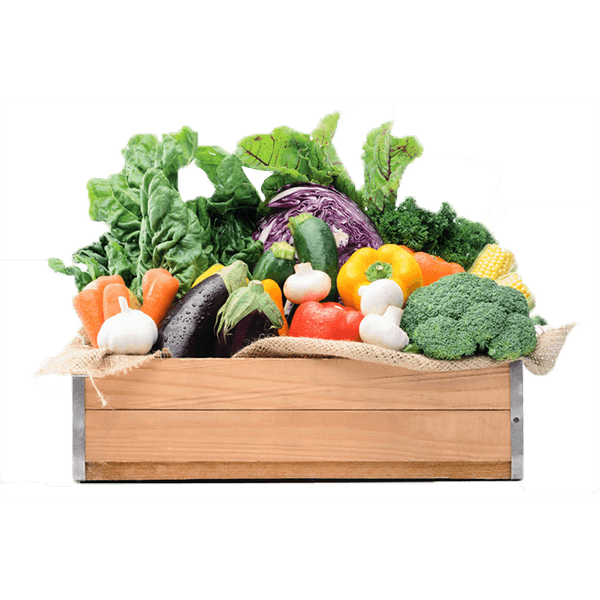
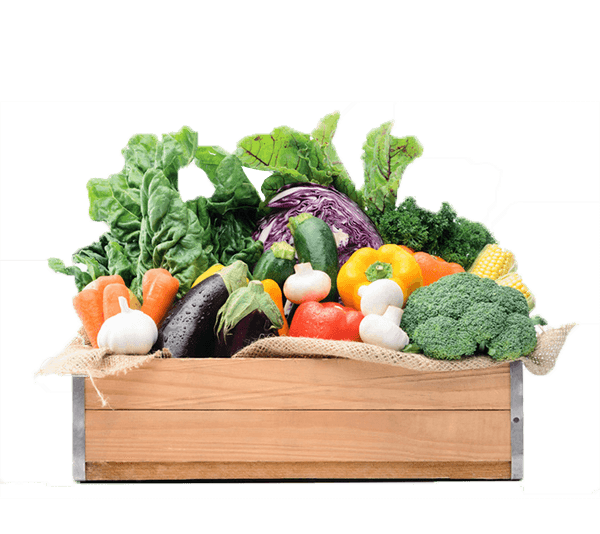
Improving the product item, adding the surprise basket and styling the product card

diff --git a/projects/mercat-kzero/src/app/product/product-list/sellers.ts b/projects/mercat-kzero/src/app/product/product-list/sellers.ts
@@ -2,7 +2,7 @@ export const sellers = [
   {
     id: 0,
     name: 'L´hort de Lourdes',
-    productName: 'Cistelles ecológiques',
+    productName: 'varied basket',
     img: 'assets/img/cesta.png',
     bio:
       'Lorem ipsum dolor sit amet consectetur adipisicing elit. Accusantium sequi fuga delectus quos expedita ut ipsam similique et ea, repellend',
@@ -11,37 +11,10 @@ export const sellers = [
   {
     id: 1,
     name: 'Can Manel',
-    productName: 'Fruitas i Verdures',
-    img: 'assets/img/frutas.png',
+    productName: 'surprise basket',
+    img: 'assets/img/cesta-1.2.png',
     bio:
       'Lorem ipsum dolor sit amet consectetur adipisicing elit. Accusantium sequi fuga delectus quos expedita ut ipsam similique et ea, repellend',
     rating: 2,
-  },
-  {
-    id: 2,
-    name: 'Verdures Carmen',
-    productName: 'Verdures variades',
-    img: 'assets/img/zanahorias.png',
-    bio:
-      'Lorem ipsum dolor sit amet consectetur adipisicing elit. Accusantium sequi fuga delectus quos expedita ut ipsam similique et ea, repellend',
-    rating: 4,
-  },
-  {
-    id: 3,
-    name: 'La Masia',
-    productName: 'Llegums i bollets',
-    img: 'assets/img/champiñones.png',
-    bio:
-      'Lorem ipsum dolor sit amet consectetur adipisicing elit. Accusantium sequi fuga delectus quos expedita ut ipsam similique et ea, repellend',
-    rating: 3,
-  },
-  {
-    id: 4,
-    name: 'L`hort d´en Lluis',
-    productName: 'Frutas',
-    img: 'assets/img/platano.png',
-    bio:
-      'Lorem ipsum dolor sit amet consectetur adipisicing elit. Accusantium sequi fuga delectus quos expedita ut ipsam similique et ea, repellend',
-    rating: 5,
   },
 ];

diff --git a/projects/mercat-kzero/src/app/product/product-item/product-item.component.html b/projects/mercat-kzero/src/app/product/product-item/product-item.component.html
@@ -1,17 +1,11 @@
-<mat-card class="product-card">
+<mat-card class="product-card mat-elevation-z1">
   <img mat-card-image [src]="seller.img" [alt]="seller.name" />
-
   <mat-card-content>
-    <h2 mat-card-title>{{ seller.name }}</h2>
-    <h3 class="mat-h3">{{ seller.productName }}</h3>
-    <app-rating-stars
-      [rating]="seller.rating"
-      [itemId]="seller.id"
-      (ratingClick)="ratingComponentClick($event)"
-    ></app-rating-stars>
+    <h2 mat-card-title>{{ seller.productName }}</h2>
   </mat-card-content>
-  <mat-card-actions>
-    <button mat-button>Qui sóc</button>
-    <button mat-button>Què tinc</button>
+  <mat-card-actions class="icons">
+    <mat-icon>search</mat-icon>
+    <mat-icon>favorite_border</mat-icon>
+    <mat-icon>shopping_cart</mat-icon>
   </mat-card-actions>
 </mat-card>

diff --git a/projects/mercat-kzero/src/app/product/product-item/product-item.component.scss b/projects/mercat-kzero/src/app/product/product-item/product-item.component.scss
@@ -1,20 +1,36 @@
 .product-card {
   max-width: 200px;
+  height: 300px;
   margin: 16px;
 }
 
 mat-card-actions {
-  text-align: center;
+  margin-top: 20px;
 }
 
 mat-card-content {
   text-align: center;
   margin-bottom: 0;
 }
-.mat-h3 {
-  margin-bottom: 5px;
+
+img.mat-card-image {
+  margin-bottom: 0;
 }
 
-.clear {
-  clear: both;
+button {
+  padding: 0;
+}
+
+.icons {
+  display: flex;
+  justify-content: space-around;
+}
+
+.icons mat-icon {
+  font-size: 40px;
+  cursor: pointer;
+}
+
+.icons mat-icon:hover {
+  font-size: 45px;
 }
